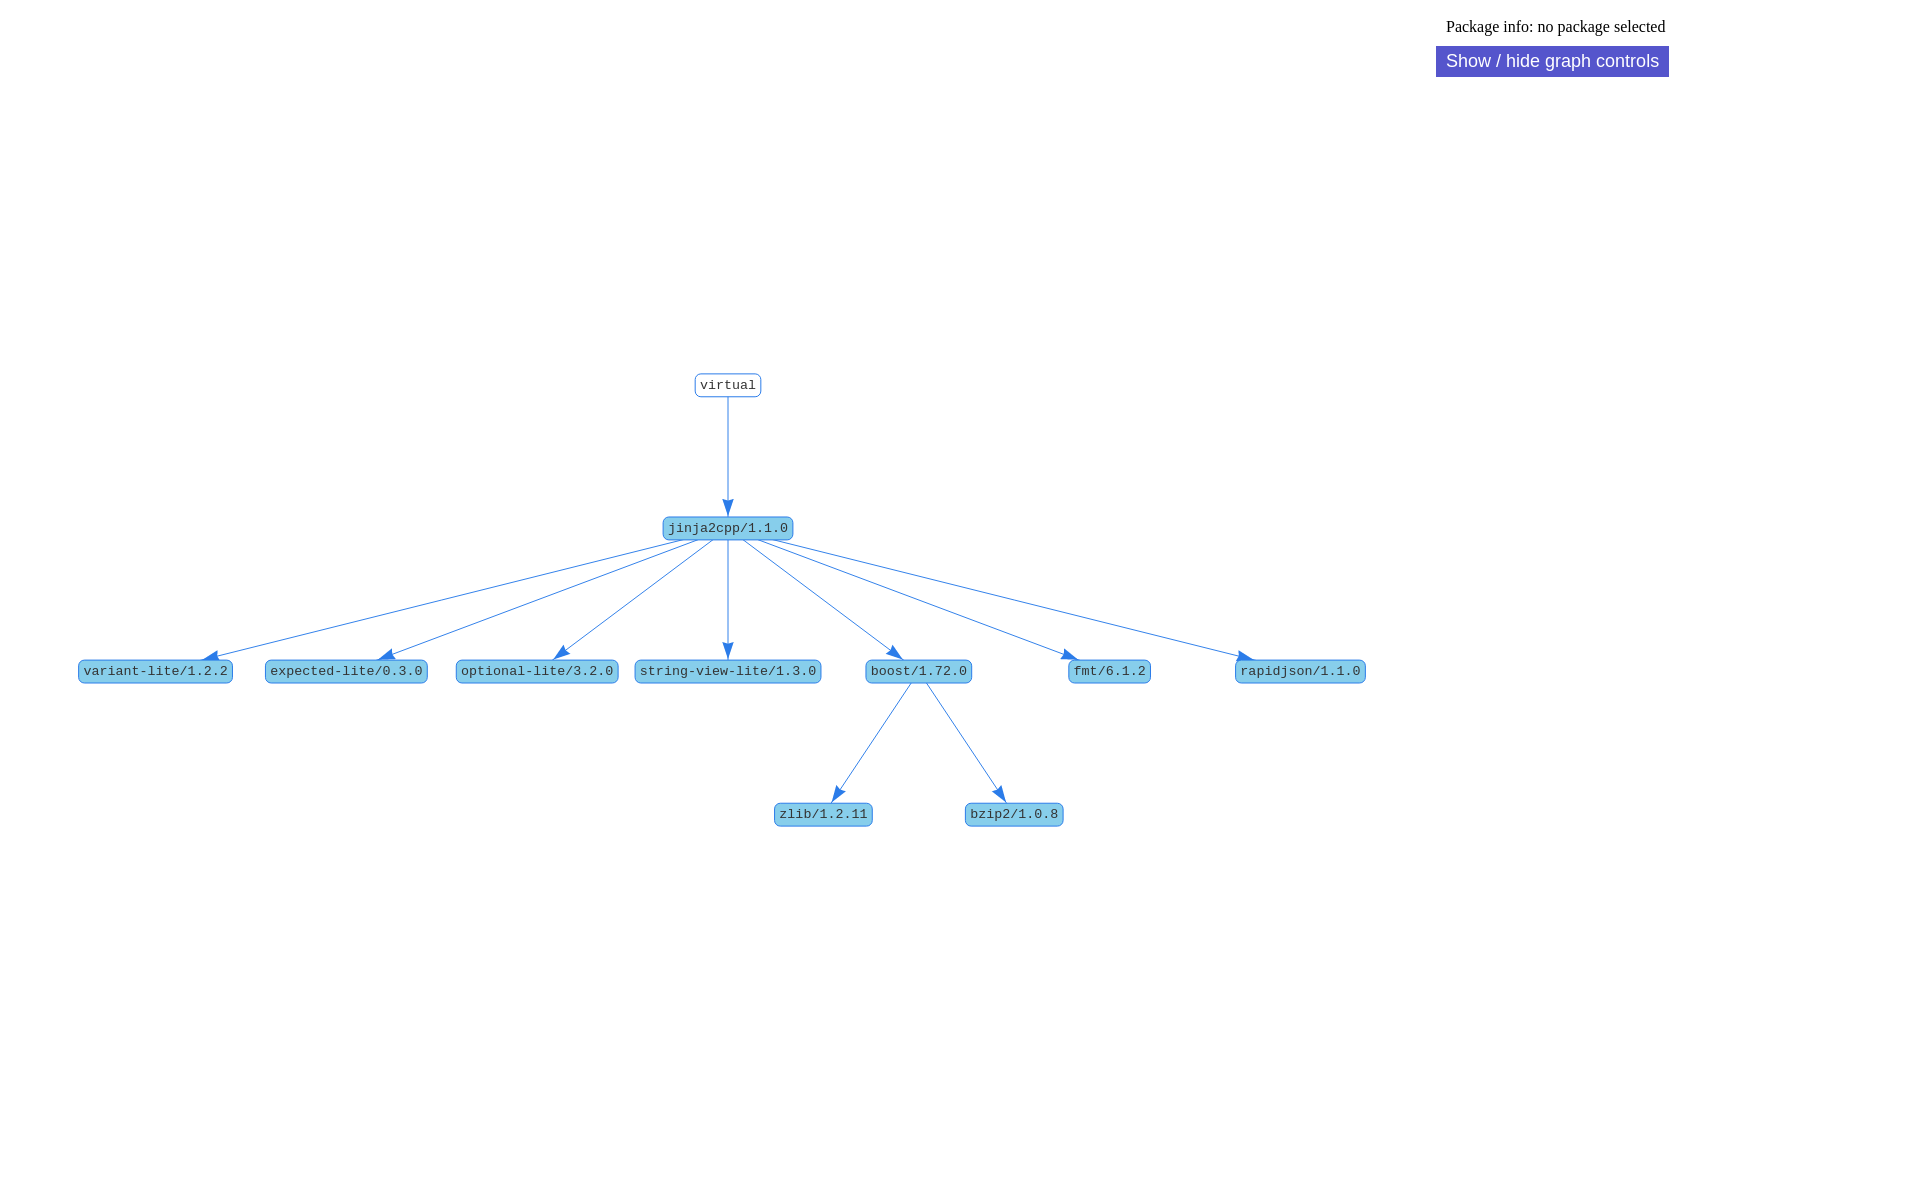
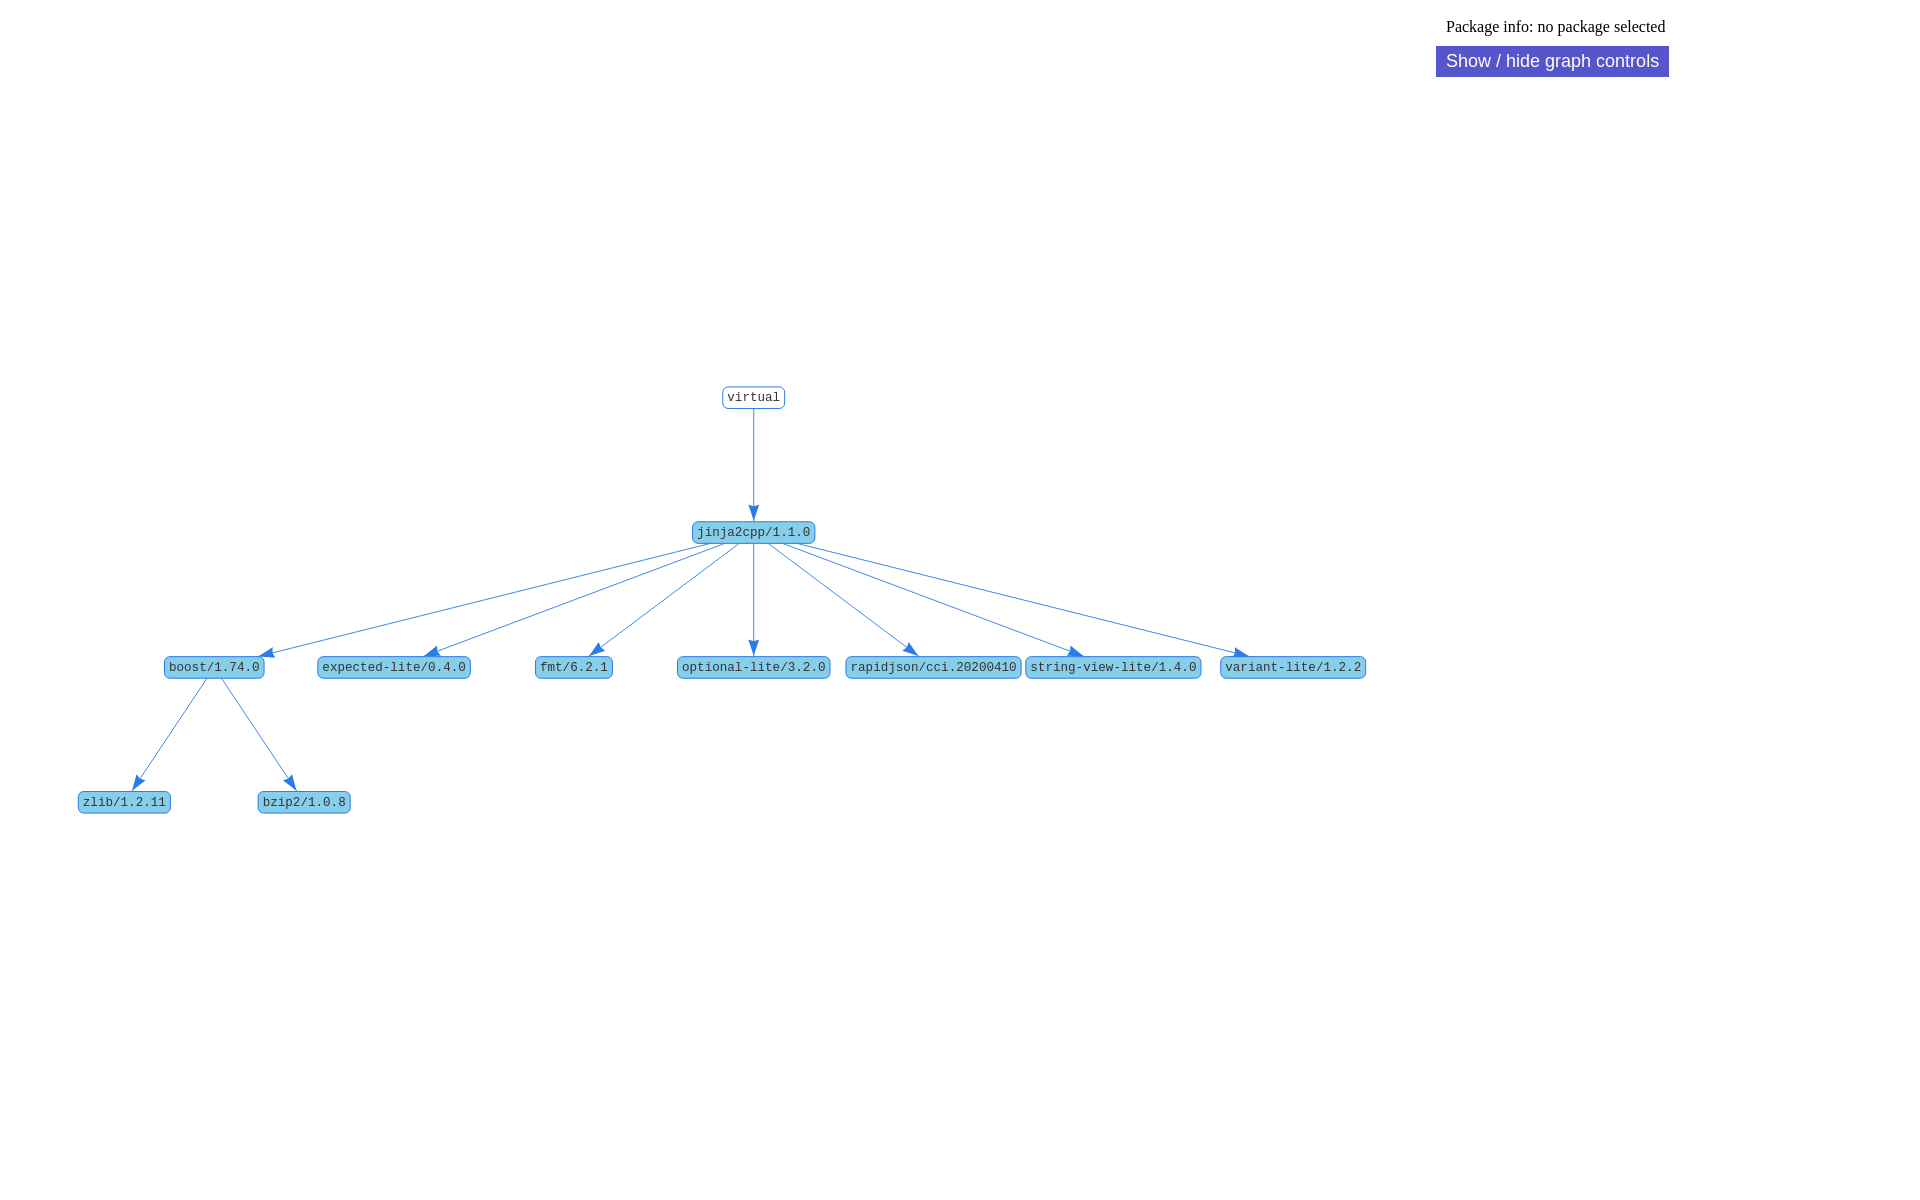
Generated files for 'info_graph.html' templates

diff --git a/info_graph_html/conan101.html b/info_graph_html/conan101.html
@@ -63,7 +63,7 @@
                         color: { background: 'SkyBlue'},
                         fulllabel: '<h3>jinja2cpp/1.1.0</h3>' +
                                    '<ul>' +
-                                   '    <li><b>id</b>: 28821f927c289dcd971a9cef3f51612deb772dbe</li>' +
+                                   '    <li><b>id</b>: 0634e8914e775959ae1d975fcc7fc00c98010649</li>' +
                                    '    <li><b>url</b>: <a href="https://github.com/conan-io/conan-center-index">https://github.com/conan-io/conan-center-index</a></li>' +
                                    '    <li><b>homepage</b>: <a href="https://jinja2cpp.dev/">https://jinja2cpp.dev/</a></li>' +
                                    '    <li><b>license</b>: MIT</li>' +
@@ -72,10 +72,10 @@
                     },
                     {
                         id: 2,
-                        label: 'boost/1.72.0',
+                        label: 'boost/1.74.0',
                         shape: 'box',
                         color: { background: 'SkyBlue'},
-                        fulllabel: '<h3>boost/1.72.0</h3>' +
+                        fulllabel: '<h3>boost/1.74.0</h3>' +
                                    '<ul>' +
                                    '    <li><b>id</b>: 8e32a503f15db833e691c2b24b83cc41a43fa2a4</li>' +
                                    '    <li><b>url</b>: <a href="https://github.com/conan-io/conan-center-index">https://github.com/conan-io/conan-center-index</a></li>' +
@@ -115,10 +115,10 @@
                     },
                     {
                         id: 5,
-                        label: 'string-view-lite/1.3.0',
+                        label: 'string-view-lite/1.4.0',
                         shape: 'box',
                         color: { background: 'SkyBlue'},
-                        fulllabel: '<h3>string-view-lite/1.3.0</h3>' +
+                        fulllabel: '<h3>string-view-lite/1.4.0</h3>' +
                                    '<ul>' +
                                    '    <li><b>id</b>: 5ab84d6acfe1f23c4fae0ab88f26e3a396351ac9</li>' +
                                    '    <li><b>url</b>: <a href="https://github.com/conan-io/conan-center-index">https://github.com/conan-io/conan-center-index</a></li>' +
@@ -129,10 +129,10 @@
                     },
                     {
                         id: 6,
-                        label: 'rapidjson/1.1.0',
+                        label: 'rapidjson/cci.20200410',
                         shape: 'box',
                         color: { background: 'SkyBlue'},
-                        fulllabel: '<h3>rapidjson/1.1.0</h3>' +
+                        fulllabel: '<h3>rapidjson/cci.20200410</h3>' +
                                    '<ul>' +
                                    '    <li><b>id</b>: 5ab84d6acfe1f23c4fae0ab88f26e3a396351ac9</li>' +
                                    '    <li><b>url</b>: <a href="https://github.com/conan-io/conan-center-index">https://github.com/conan-io/conan-center-index</a></li>' +
@@ -158,10 +158,10 @@
                     },
                     {
                         id: 8,
-                        label: 'fmt/6.1.2',
+                        label: 'fmt/6.2.1',
                         shape: 'box',
                         color: { background: 'SkyBlue'},
-                        fulllabel: '<h3>fmt/6.1.2</h3>' +
+                        fulllabel: '<h3>fmt/6.2.1</h3>' +
                                    '<ul>' +
                                    '    <li><b>id</b>: d351525cc53ebe68279edf1978846402420066e7</li>' +
                                    '    <li><b>url</b>: <a href="https://github.com/conan-io/conan-center-index">https://github.com/conan-io/conan-center-index</a></li>' +
@@ -172,10 +172,10 @@
                     },
                     {
                         id: 9,
-                        label: 'expected-lite/0.3.0',
+                        label: 'expected-lite/0.4.0',
                         shape: 'box',
                         color: { background: 'SkyBlue'},
-                        fulllabel: '<h3>expected-lite/0.3.0</h3>' +
+                        fulllabel: '<h3>expected-lite/0.4.0</h3>' +
                                    '<ul>' +
                                    '    <li><b>id</b>: 5ab84d6acfe1f23c4fae0ab88f26e3a396351ac9</li>' +
                                    '    <li><b>url</b>: <a href="https://github.com/conan-io/conan-center-index">https://github.com/conan-io/conan-center-index</a></li>' +
@@ -200,16 +200,16 @@
                     }
             ]);
             var edges = new vis.DataSet([
-                    { from: 0, to: 1 },
                     { from: 2, to: 3 },
                     { from: 2, to: 10 },
-                    { from: 1, to: 4 },
-                    { from: 1, to: 9 },
-                    { from: 1, to: 7 },
-                    { from: 1, to: 5 },
                     { from: 1, to: 2 },
+                    { from: 1, to: 9 },
                     { from: 1, to: 8 },
-                    { from: 1, to: 6 }
+                    { from: 1, to: 7 },
+                    { from: 1, to: 6 },
+                    { from: 1, to: 5 },
+                    { from: 1, to: 4 },
+                    { from: 0, to: 1 }
             ]);
 
             var container = document.getElementById('mynetwork');
